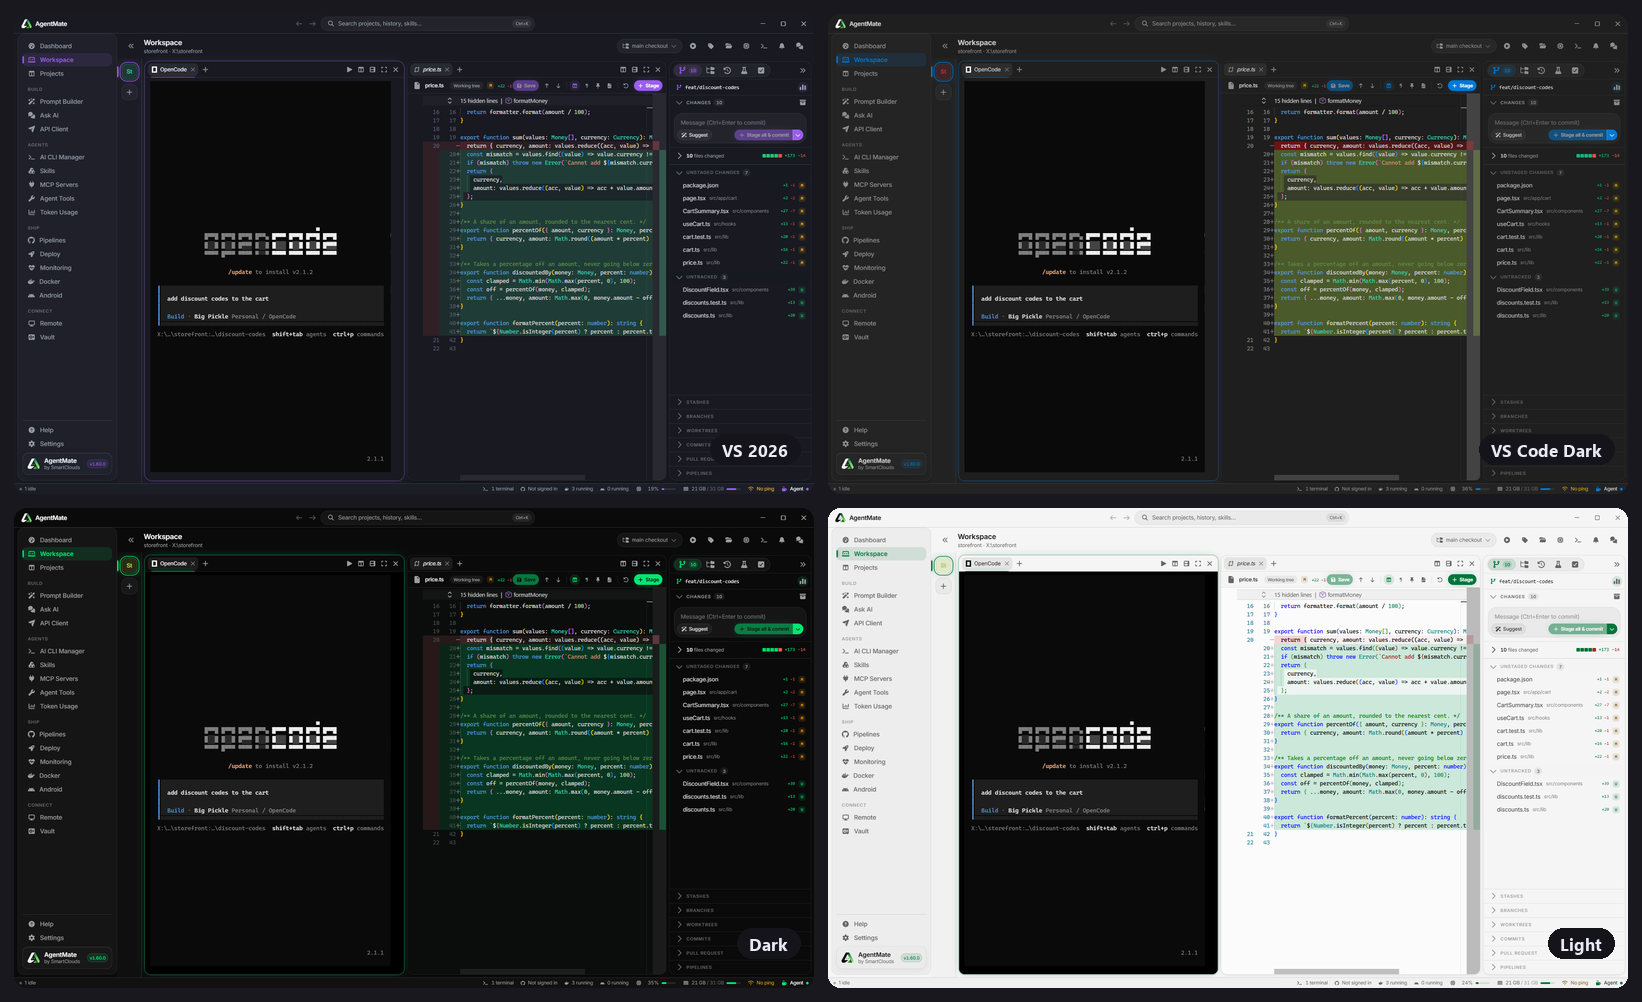
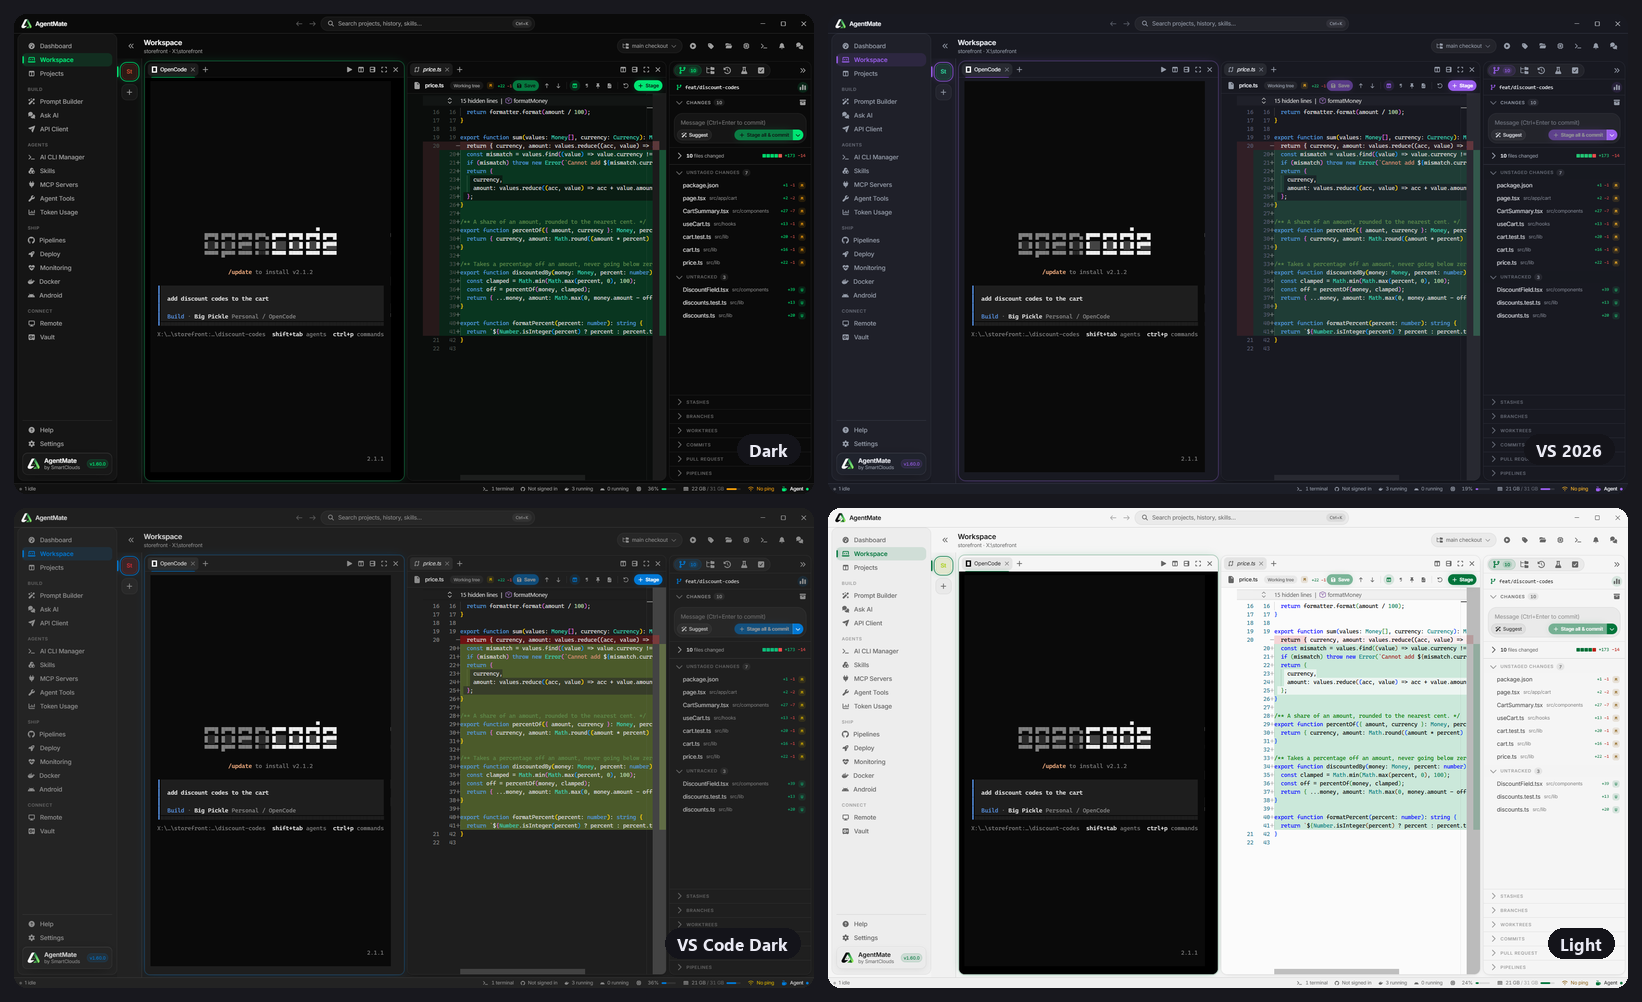
Docs: refresh README screenshots and reorder theme captions
Refresh the README screenshots and fix the theme captions to match the new default Dark theme.

diff --git a/README.md b/README.md
@@ -51,11 +51,11 @@
   </tr>
   <tr>
     <td width="50%"><img src=".github/assets/screenshot-dashboard.png" alt="Dashboard" /></td>
-    <td width="50%"><img src=".github/assets/screenshot-themes.png" alt="The same workspace in VS 2026, VS Code Dark, Dark and Light" /></td>
+    <td width="50%"><img src=".github/assets/screenshot-themes.png" alt="The same workspace in Dark, VS 2026, VS Code Dark and Light" /></td>
   </tr>
   <tr>
     <td align="center"><em>Dashboard: system health, network, and token usage at a glance</em></td>
-    <td align="center"><em>Themes: VS 2026, VS Code Dark, Dark, and Light</em></td>
+    <td align="center"><em>Themes: Dark (the default, green), VS 2026, VS Code Dark, and Light</em></td>
   </tr>
   <tr>
     <td colspan="2" align="center"><img src=".github/assets/screenshot-pet.png" alt="AI Pet token report" /></td>
@@ -65,7 +65,7 @@
   </tr>
 </table>
 
-Every screenshot uses demo data (a made-up shop called Northwind), taken in the VS 2026 theme unless it says otherwise. The Deploy screenshot shows the DevHost described under [Deploy](#deploy), not a real server.
+Every screenshot uses demo data (a made-up shop called Northwind), taken in the default Dark theme unless it says otherwise. The Deploy screenshot shows the DevHost described under [Deploy](#deploy), not a real server.
 
 ## Why "ADE"
 
